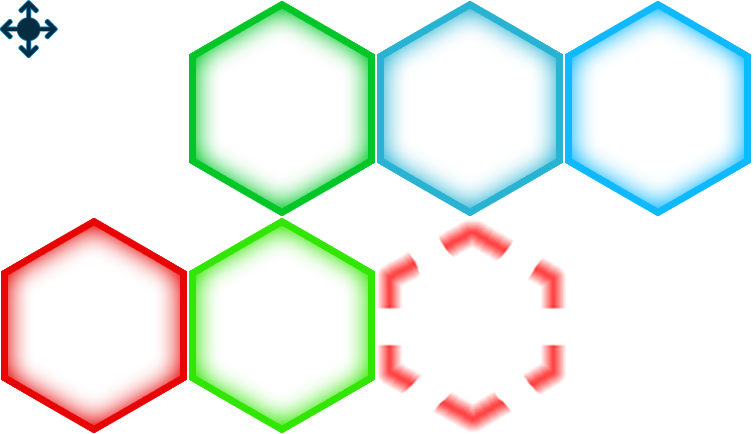
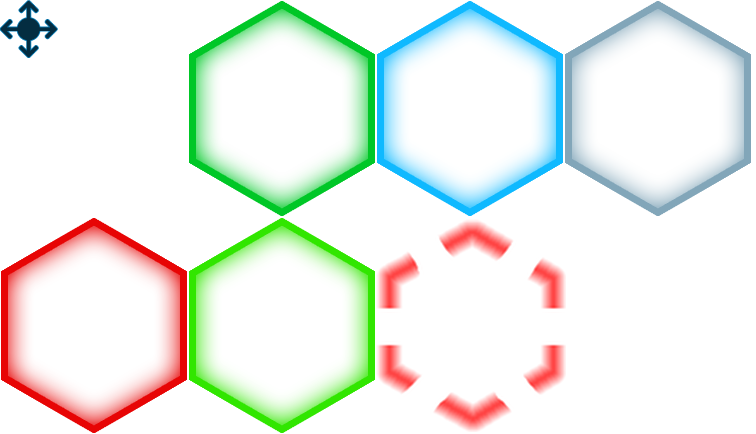
Move units front + back + notification.

Changed region(s): [[0.4868, 0.0, 1.0, 0.5092], [0.6693, 0.0599, 0.6997, 0.0899]]

diff --git a/memoir.css b/memoir.css
@@ -170,8 +170,6 @@ html {
     position: relative;
     height: 0;
     padding-bottom: 115.7%; }
-    #m44-board .hex-grid-item * {
-      visibility: visible; }
     #m44-board .hex-grid-item .hex-grid-content {
       position: absolute;
       top: 0;
@@ -704,18 +702,20 @@ html {
       transform-origin: bottom center; }
   #m44-board:hover .hex-label-container {
     opacity: 0.2; }
-  #m44-board .hex-cell-container .hex-cell {
-    position: absolute;
-    top: 0;
-    left: 0;
-    width: 100%;
-    height: 100%; }
-    #m44-board .hex-cell-container .hex-cell.selectable {
-      cursor: pointer; }
-      #m44-board .hex-cell-container .hex-cell.selectable.forMove {
-        background-image: url("img/hex_background_highlights.png");
-        background-size: 500% 100%;
-        background-position: 0% 0%; }
+  #m44-board .hex-cell-container {
+    clip-path: polygon(49% 0%, 51% 0%, 100% 24%, 100% 75%, 51% 100%, 49% 100%, 0% 76%, 0% 24%); }
+    #m44-board .hex-cell-container .hex-cell {
+      position: absolute;
+      top: 0;
+      left: 0;
+      width: 100%;
+      height: 100%; }
+      #m44-board .hex-cell-container .hex-cell.selectable {
+        cursor: pointer; }
+        #m44-board .hex-cell-container .hex-cell.selectable.forMove {
+          background-image: url("img/hex_background_highlights.png");
+          background-size: 500% 100%;
+          background-position: 0% 0%; }
   #m44-board .board-divider {
     margin-left: -1px;
     z-index: 2;
@@ -770,8 +770,11 @@ html {
     cursor: default; }
   .m44-unit.activated, .m44-unit.moving {
     background-image: url("img/hex_border_highlights.png");
-    background-size: 400% 200%;
-    background-position: 100% 0%; }
+    background-size: 400% 200%; }
+  .m44-unit.activated {
+    background-position: 66.666% 0%; }
+    .m44-unit.activated.unselectableForMoving {
+      background-position: 100% 0%; }
   .m44-unit.moving {
     background-position: 33.333% 0%; }
   .m44-unit.onTheMove::before {

diff --git a/modules/js/States/OrderUnits.js b/modules/js/States/OrderUnits.js
@@ -84,6 +84,11 @@ define(['dojo', 'dojo/_base/declare'], (dojo, declare) => {
 
     onEnteringStateMoveUnits(args) {
       Object.keys(args.units).forEach((unitId) => {
+        if (args.units[unitId].length == 0) {
+          $('unit-' + unitId).classList.add('unselectableForMoving');
+          return;
+        }
+
         this.onClick('unit-' + unitId, () => {
           this.clientState('moveUnitsChooseTarget', _('Select the destination hex'), {
             unitId,
@@ -100,9 +105,14 @@ define(['dojo', 'dojo/_base/declare'], (dojo, declare) => {
       $('unit-' + args.unitId).classList.add('moving');
       args.cells.forEach((cell) => {
         let oCell = $(`cell-${cell.x}-${cell.y}`);
-        this.onClick(oCell, () => debug(cell));
+        this.onClick(oCell, () => this.takeAction('actMoveUnit', { unitId: args.unitId, x: cell.x, y: cell.y }));
         oCell.classList.add('forMove');
       });
+    },
+
+    notif_moveUnit(n) {
+      debug('Notif: unit is moving', n);
+      this.slide('unit-' + n.args.unitId, `cell-${n.args.x}-${n.args.y}`, { duration: 1100 });
     },
   });
 });

diff --git a/modules/js/Core/game.js b/modules/js/Core/game.js
@@ -468,6 +468,10 @@ define(['dojo', 'dojo/_base/declare', 'ebg/core/gamegui'], (dojo, declare) => {
         dojo.place(mobile, 'game_play_area');
         this.placeOnObject(mobile, mobileElt);
         dojo.addClass(mobileElt, 'phantom');
+        dojo.style(mobile, {
+          width: mobileElt.offsetWidth + 'px',
+          height: mobileElt.offsetHeight + 'px',
+        });
         config.from = mobileElt;
       }
 
@@ -548,7 +552,6 @@ define(['dojo', 'dojo/_base/declare', 'ebg/core/gamegui'], (dojo, declare) => {
     positionObjectDirectly(mobileObj, x, y) {
       // do not remove this "dead" code some-how it makes difference
       dojo.style(mobileObj, 'left'); // bug? re-compute style
-      // console.log("place " + x + "," + y);
       dojo.style(mobileObj, {
         left: x + 'px',
         top: y + 'px',

diff --git a/modules/css/units.scss b/modules/css/units.scss
@@ -54,24 +54,30 @@
     cursor: default;
   }
 
-  &.activated, &.moving {
+  &.activated,
+  &.moving {
     background-image: url('img/hex_border_highlights.png');
     background-size: 400% 200%;
-    background-position: 100% 0%;
   }
 
+  &.activated {
+    background-position: 66.666% 0%;
+    &.unselectableForMoving {
+      background-position: 100% 0%;
+    }
+  }
   &.moving {
     background-position: 33.333% 0%;
   }
 
   &.onTheMove::before {
-    content:'';
+    content: '';
     display: block;
     position: absolute;
-    top:0;
-    left:0;
-    bottom:0;
-    right:0;
+    top: 0;
+    left: 0;
+    bottom: 0;
+    right: 0;
     background-image: url('img/hex_border_highlights.png');
     background-size: 400% 200%;
     background-position: 0% 0%;

diff --git a/memoir.js b/memoir.js
@@ -32,7 +32,10 @@ define([
   return declare('bgagame.memoir', [customgame.game, memoir.board, memoir.players, memoir.orderUnits], {
     constructor() {
       this._activeStates = ['playCard', 'orderUnits', 'moveUnits'];
-      this._notifications = [['playCard', 1000]];
+      this._notifications = [
+        ['playCard', 1000],
+        ['moveUnit', 1200],
+      ];
 
       // Fix mobile viewport (remove CSS zoom)
       this.default_viewport = 'width=700';

diff --git a/modules/css/board.scss b/modules/css/board.scss
@@ -60,9 +60,9 @@
     position: relative;
     height: 0;
     padding-bottom: 115.7%;
-    * {
-      visibility: visible;
-    }
+    //* {
+    //  visibility: visible;
+    //}
 
     .hex-grid-content {
       position: absolute;
@@ -147,6 +147,8 @@
   }
 
   .hex-cell-container {
+    clip-path: polygon(49% 0%, 51% 0%, 100% 24%, 100% 75%, 51% 100%, 49% 100%, 0% 76%, 0% 24%);
+
     .hex-cell {
       position: absolute;
       top: 0;

diff --git a/modules/php/States/MoveUnitsTrait.php b/modules/php/States/MoveUnitsTrait.php
@@ -2,16 +2,66 @@
 namespace M44\States;
 
 use M44\Core\Globals;
+use M44\Core\Notifications;
 use M44\Managers\Players;
 use M44\Managers\Teams;
 use M44\Managers\Units;
+use M44\Helpers\Utils;
+use M44\Board;
 
 trait MoveUnitsTrait
 {
-  public function argsMoveUnits()
+  public function argsMoveUnits($player = null)
   {
     $player = $player ?? Players::getActive();
     $card = $player->getCardInPlay();
     return $card->getArgsMoveUnits();
+  }
+
+  public function actMoveUnit($unitId, $x, $y)
+  {
+    // Sanity checks
+    self::checkAction('actMoveUnit');
+    $player = Players::getCurrent();
+    $args = $this->argsMoveUnits($player);
+    if (!\array_key_exists($unitId, $args['units'])) {
+      throw new \BgaVisibleSystemException('You cannot move this unit. Should not happen');
+    }
+    $cells = $args['units'][$unitId];
+    $k = Utils::array_usearch($cells, function ($cell) use ($x, $y) {
+      return $cell['x'] == $x && $cell['y'] == $y;
+    });
+    if ($k === false) {
+      throw new \BgaVisibleSystemException('You cannot move this unit to this hex. Should not happen');
+    }
+
+    // Move the unit
+    $cell = $cells[$k];
+    $unit = Units::get($unitId);
+    $unit->incMoves($cell['d']);
+    $unit->moveTo($cell);
+    Board::refreshUnits();
+    Notifications::moveUnit($player, $unitId, $x, $y);
+
+    // TODO : notification
+    $this->gamestate->nextState('moveUnits');
+  }
+
+  public function actMoveUnitsDone()
+  {
+    self::checkAction('actMoveUnitsDone');
+    $this->gamestate->nextState('attackUnits');
+  }
+
+  public function stMoveUnits()
+  {
+    $player = Players::getActive();
+    $args = $this->argsMoveUnits($player);
+    foreach ($args['units'] as $unitId => $cells) {
+      if (!empty($cells)) {
+        return;
+      }
+    }
+    $this->gamestate->nextState('attackUnits');
   }
 }

diff --git a/states.inc.php b/states.inc.php
@@ -69,15 +69,16 @@ $machinestates = [
     'descriptionmyturn' => clienttranslate('${you} may move activated units'),
     'type' => 'activeplayer',
     'args' => 'argsMoveUnits',
-    'possibleactions' => ['actMoveUnits'],
-    'transitions' => ['moveUnits' => ST_MOVE_UNITS],
+    'action' => 'stMoveUnits',
+    'possibleactions' => ['actMoveUnit', 'actMoveUnitsDone'],
+    'transitions' => ['moveUnits' => ST_MOVE_UNITS, 'attackUnits' => ST_ATTACK],
   ],
 
   ST_ATTACK => [
     'name' => 'attackUnit',
-    'description' => clienttranslate('${actplayer} must select an unit and its target'),
-    'descriptionmyturn' => clienttranslate('${you} must select an unit and its target'),
-    'type' => 'multipleactiveplayer',
+    'description' => clienttranslate('${actplayer} may battle'),
+    'descriptionmyturn' => clienttranslate('${you} may battle with one of your unit'),
+    'type' => 'activeplayer',
     'args' => 'argsAttackUnit',
     'possibleactions' => ['actAttackUnit'],
     'transitions' => ['ambush' => ST_PRE_AMBUSH, 'attack' => ST_ATTACK_THROW], // attack if not close assault

diff --git a/modules/php/Units/AbstractUnit.php b/modules/php/Units/AbstractUnit.php
@@ -119,18 +119,6 @@ class AbstractUnit extends \M44\Helpers\DB_Manager implements \JsonSerializable
     }
   }
 
-  public function setMoves($value)
-  {
-    $this->moves = $value;
-    self::DB()->update(['moves' => $this->moves], $this->id);
-  }
-
-  public function incMoves($value)
-  {
-    $this->moves += $value;
-    self::DB()->update(['moves' => $this->moves], $this->id);
-  }
-
   public function setFights($value)
   {
     $this->fights = $value;
@@ -177,8 +165,25 @@ class AbstractUnit extends \M44\Helpers\DB_Manager implements \JsonSerializable
     return $this->moves;
   }
 
+  public function setMoves($value)
+  {
+    $this->moves = $value;
+    self::DB()->update(['moves' => $this->moves], $this->id);
+  }
+
+  public function incMoves($value)
+  {
+    $this->moves += $value;
+    self::DB()->update(['moves' => $this->moves], $this->id);
+  }
+
   public function getPossibleMoves()
   {
     return Board::getReachableCells($this);
+  }
+
+  public function moveTo($cell)
+  {
+    self::DB()->update(['x' => $cell['x'], 'y' => $cell['y']], $this->id);
   }
 }

diff --git a/modules/php/Board.php b/modules/php/Board.php
@@ -72,6 +72,18 @@ class Board extends \APP_DbObject
     }
   }
 
+  public function refreshUnits()
+  {
+    foreach (self::$grid as $x => $col) {
+      foreach ($col as $y => $cell) {
+        self::$grid[$x][$y]['units'] = [];
+      }
+    }
+    foreach (Units::getAllOrdered() as $unit) {
+      self::$grid[$unit->getX()][$unit->getY()]['units'][] = $unit;
+    }
+  }
+
   public function getUiData()
   {
     $scenario = self::getScenario();
@@ -96,7 +108,7 @@ class Board extends \APP_DbObject
   public static function getReachableCells($unit)
   {
     // Compute remaining moves for the unit
-    $m = $unit->getMovementRadius() - $unit->getMoves() + 2;
+    $m = $unit->getMovementRadius() - $unit->getMoves();
     return self::getReachableCellsAtDistance($unit, $m);
   }
 

diff --git a/memoir.action.php b/memoir.action.php
@@ -52,6 +52,24 @@ class action_memoir extends APP_GameAction
     self::ajaxResponse();
   }
 
+  public function actMoveUnit()
+  {
+    self::setAjaxMode();
+    $unitId = self::getArg('unitId', AT_posint, false);
+    $x = self::getArg('x', AT_posint, false);
+    $y = self::getArg('y', AT_posint, false);
+    $this->game->actMoveUnit($unitId, $x, $y);
+    self::ajaxResponse();
+  }
+
+  public function actMoveUnitsDone()
+  {
+    self::setAjaxMode();
+    $this->game->actMoveUnitsDone();
+    self::ajaxResponse();
+  }
+
+
   public function getNumberList($name, $mandatory = true)
   {
     $t = $this->getArg($name, AT_numberlist, $mandatory);

diff --git a/modules/php/Helpers/Utils.php b/modules/php/Helpers/Utils.php
@@ -34,6 +34,21 @@ abstract class Utils extends \APP_DbObject
     return true;
   }
 
+  public static function array_usearch($array, $test)
+  {
+    $found = false;
+    $iterator = new \ArrayIterator($array);
+
+    while ($found === false && $iterator->valid()) {
+      if ($test($iterator->current())) {
+        $found = $iterator->key();
+      }
+      $iterator->next();
+    }
+
+    return $found;
+  }
+
   public static function privatise($data, $pId = null)
   {
     $key = $pId ?? 'active';
